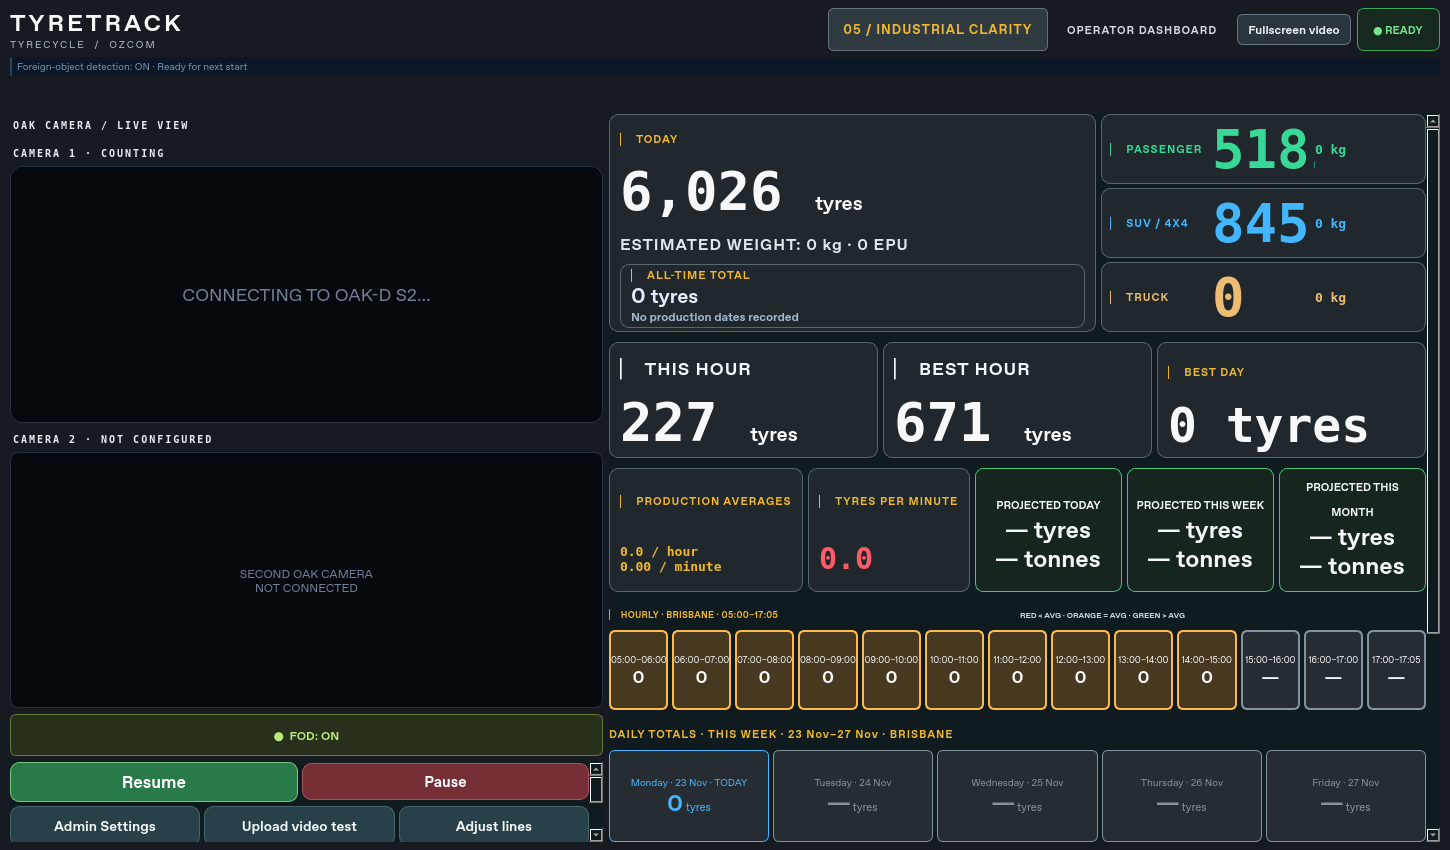
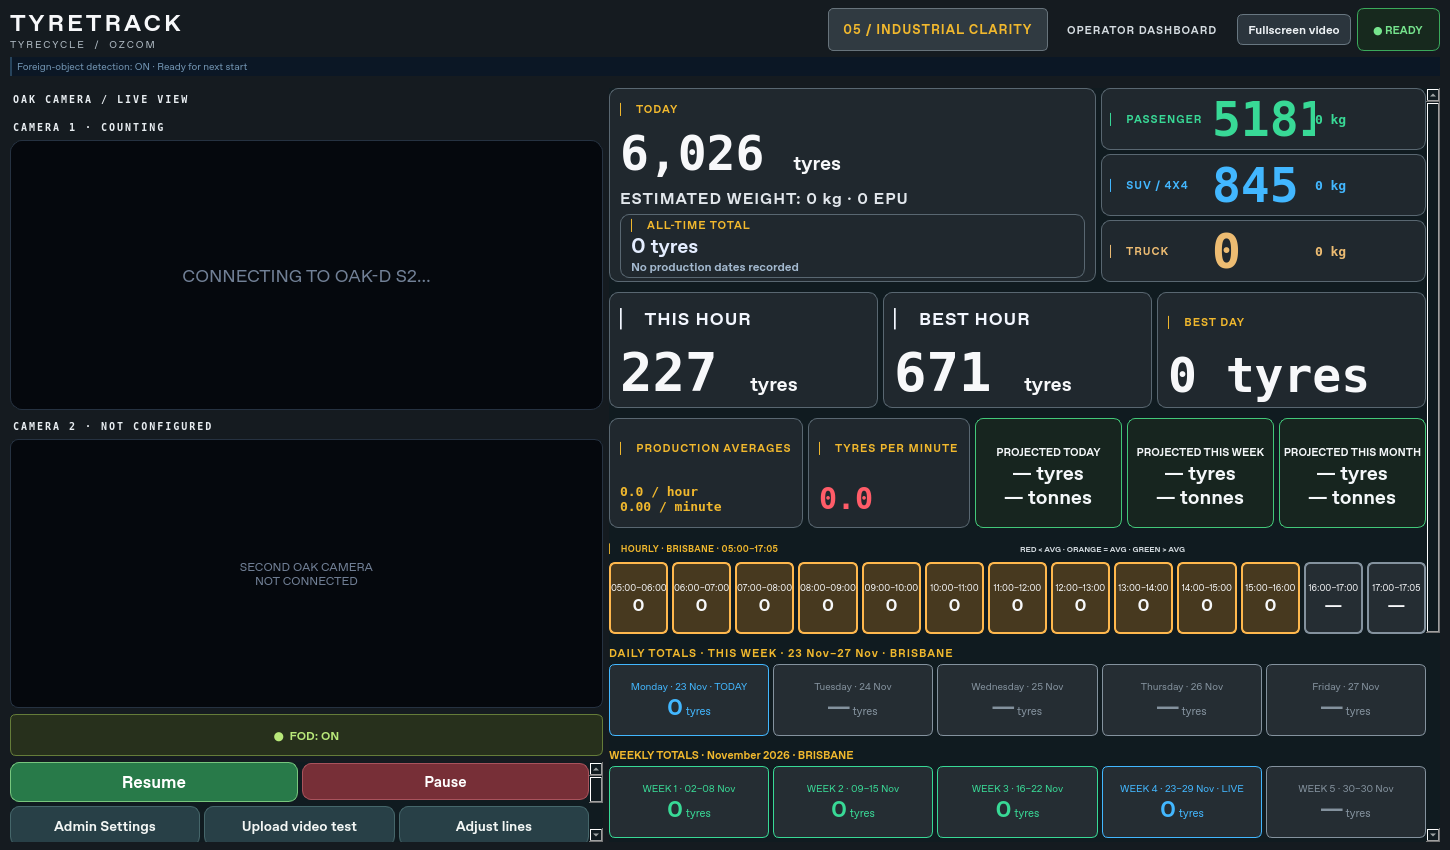
Add files via upload

diff --git a/month_week_dashboard_test.py b/month_week_dashboard_test.py
@@ -1,0 +1,53 @@
+"""Month week arithmetic and real responsive dashboard fit."""
+import sqlite3,calendar
+from datetime import datetime,timedelta,timezone
+from contextlib import closing
+from weekly_dashboard import month_week_snapshot
+from hourly_dashboard import BRISBANE
+now=datetime(2026,10,28,10,tzinfo=BRISBANE)
+with closing(sqlite3.connect(':memory:')) as c:
+ c.execute('CREATE TABLE counts(ts TEXT,metric_utc REAL,source TEXT)')
+ def add(t,source='oak',legacy=False,utc=False):
+  ts=t.astimezone(timezone.utc).isoformat() if utc else t.replace(tzinfo=None).isoformat() if legacy else t.isoformat()
+  c.execute('INSERT INTO counts VALUES(?,?,?)',(ts,None if legacy or utc else t.timestamp(),source))
+ add(now.replace(day=1,hour=5),utc=True);add(now.replace(day=2,hour=17,minute=4),legacy=True)
+ for day in (5,26,27,28):add(now.replace(day=day,hour=6))
+ for t,src in [(now.replace(day=3),'oak'),(now.replace(day=28,hour=11),'oak'),(now.replace(day=29),'oak'),(now.replace(day=27,hour=4,minute=59),'oak'),(now.replace(day=27,hour=17,minute=5),'oak'),(now,'video'),(now.replace(month=9,day=30),'oak')]:add(t,src)
+ c.execute("INSERT INTO counts VALUES('bad',NULL,'oak')")
+ ws=month_week_snapshot(c,'oak',now);assert [w['count'] for w in ws]==[2,1,0,0,3],ws
+ assert ws[-1]['current'] and all(w['completed'] for w in ws[:-1])
+ assert month_week_snapshot(c,'oak',now.astimezone(timezone.utc))==ws
+ for year in (2024,2026,2027):
+  for month in range(1,13):
+   ws=month_week_snapshot(c,'oak',now.replace(year=year,month=month,day=1));assert 4<=len(ws)<=5
+   covered=[(w['start']+timedelta(days=i)).date() for w in ws for i in range((w['end']-w['start']).days)]
+   assert len(covered)==len(set(covered)) and all(d.month==month for d in covered)
+   assert all(datetime(year,month,d).date() in covered for d in range(1,calendar.monthrange(year,month)[1]+1) if datetime(year,month,d).weekday()<5)
+ nov=month_week_snapshot(c,'oak',now.replace(month=11,day=1));assert nov[0]['start'].day==2 and all(w['future'] for w in nov)
+print('PASS month boundaries, leap years, partial weeks, timezone rollover, production shifts/source/future exclusion')
+# Reuse the established real UI fixture with added month-row assertions.
+from pathlib import Path
+source=Path('weekday_dashboard_test.py').read_text()
+source=source.replace("[(1280,720),(1366,768),(1450,850)]","[(1280,720),(1366,768),(1450,850),(1920,1080)]")
+needle="    assert w.hourly_strip.isVisible() and w.weekday_strip.isVisible()"
+extra='''
+    assert [x['count'] for x in w._dashboard_cache['month_weeks']]==[0,0,0,0,10]
+    assert 'October 2026' in w.month_week_heading.text() and 'LIVE' in w.dashboard_week_blocks[-1].text()
+    w.stats_scroll.verticalScrollBar().setValue(0);qt.processEvents()
+    viewport=w.stats_scroll.viewport()
+    for strip in (w.hourly_strip,w.weekday_strip,w.month_week_strip):
+     pos=strip.mapTo(viewport,strip.rect().topLeft())
+     assert pos.x()>=0 and pos.x()+strip.width()<=viewport.width()+1
+     assert pos.y()>=0 and pos.y()+strip.height()<=viewport.height()+1,(style,width,height,pos.y(),strip.height(),viewport.height())
+    blocks=[b for b in w.dashboard_week_blocks if b.isVisible()]
+    assert max(b.width() for b in blocks)-min(b.width() for b in blocks)<=1
+    assert all(b.height()>=48 and b.width()>=120 for b in blocks)
+    from PyQt5.QtGui import QTextDocument
+    for label in w.projection_labels.values():
+     document=QTextDocument();document.setDefaultFont(label.font());document.setHtml(label.text());document.setTextWidth(label.width()-8)
+     assert document.size().height()<=label.height(),(style,width,height,document.size().height(),label.height())
+'''
+assert needle in source;source=source.replace(needle,needle+extra)
+source=source.replace('weekday_dashboard_preview.png','month_week_dashboard_preview.png')
+exec(compile(source,'month_week_real_ui_fixture','exec'),{'__file__':str(Path('weekday_dashboard_test.py').resolve())})
+print('PASS weekly cards equal width, 3 totals rows fully visible without scrolling at 4 sizes/2 styles; real async production totals')

diff --git a/run_ci_tests.py b/run_ci_tests.py
@@ -2,7 +2,7 @@
 import os,subprocess,sys,time,pathlib
 ROOT=pathlib.Path(__file__).resolve().parent
 LOGS=ROOT/'build_logs';LOGS.mkdir(exist_ok=True)
-TESTS=['belt_width_confirmed_test.py','overlap_adjustment_ui_test.py','overlap_worker_link_test.py','overlap_adjustment_test.py','overlap_review_test.py','overlap_trial_test.py','classification_replay_test.py','classification_comparison_worker_test.py','classification_review_test.py','classification_review_ui_test.py','belt_width_assist_test.py','foreign_startup_test.py','test_resources_test.py','production_support_test.py','monthly_forecast_test.py','web_snapshot_test.py','web_dashboard_ui_test.py','web_dashboard_test.py','integrity_line_endings_test.py','no_count_reply_ui_test.py','no_count_reply_recovery_test.py','production_forecast_test.py','dashboard_performance_test.py','live_totals_test.py','management_reports_test.py','foreign_report_snapshots_test.py','weekday_dashboard_test.py','tyre_weight_test.py','preview_performance_test.py','startup_support_test.py','celebration_shuffle_test.py','compare_builds_test.py','celebration_audio_test.py','database_upgrade_test.py','line_span_test.py','adjustable_bounds_test.py','video_preview_integration_test.py','onscreen_preview_test.py','video_test_ui_test.py','zigzag_test.py','three_line_test.py','production_schedule_test.py','schedule_metrics_test.py','production_ui_test.py','celebration_test.py','logic_test_isolation_test.py','no_count_replies_test.py','foreign_evidence_test.py','oak_foreign_worker_test.py','oak_integrity_test.py','oak_rvc2_test.py','oak_fov_test.py','oak_recording_test.py','gui_render_test.py','dashboard_async_test.py','oak_ai_test.py','oak_stream_test.py','oak_worker_test.py','tyretrack_report_sync_test.py','foreign_alarm_test.py']
+TESTS=['month_week_dashboard_test.py','belt_width_confirmed_test.py','overlap_adjustment_ui_test.py','overlap_worker_link_test.py','overlap_adjustment_test.py','overlap_review_test.py','overlap_trial_test.py','classification_replay_test.py','classification_comparison_worker_test.py','classification_review_test.py','classification_review_ui_test.py','belt_width_assist_test.py','foreign_startup_test.py','test_resources_test.py','production_support_test.py','monthly_forecast_test.py','web_snapshot_test.py','web_dashboard_ui_test.py','web_dashboard_test.py','integrity_line_endings_test.py','no_count_reply_ui_test.py','no_count_reply_recovery_test.py','production_forecast_test.py','dashboard_performance_test.py','live_totals_test.py','management_reports_test.py','foreign_report_snapshots_test.py','weekday_dashboard_test.py','tyre_weight_test.py','preview_performance_test.py','startup_support_test.py','celebration_shuffle_test.py','compare_builds_test.py','celebration_audio_test.py','database_upgrade_test.py','line_span_test.py','adjustable_bounds_test.py','video_preview_integration_test.py','onscreen_preview_test.py','video_test_ui_test.py','zigzag_test.py','three_line_test.py','production_schedule_test.py','schedule_metrics_test.py','production_ui_test.py','celebration_test.py','logic_test_isolation_test.py','no_count_replies_test.py','foreign_evidence_test.py','oak_foreign_worker_test.py','oak_integrity_test.py','oak_rvc2_test.py','oak_fov_test.py','oak_recording_test.py','gui_render_test.py','dashboard_async_test.py','oak_ai_test.py','oak_stream_test.py','oak_worker_test.py','tyretrack_report_sync_test.py','foreign_alarm_test.py']
 for test in TESTS:
     print(f'\n=== START {test} ===',flush=True)
     start=time.monotonic()

diff --git a/classification_review_ui_test.py b/classification_review_ui_test.py
@@ -1,5 +1,5 @@
 """Real Qt dashboard/review interactions; CPU model stub, isolated state, no camera/network."""
-import os,sys,types,time
+import os,sys,types,time,threading
 from test_resources import DatabaseTemporaryDirectory
 from pathlib import Path
 os.environ['QT_QPA_PLATFORM']='offscreen'
@@ -63,8 +63,44 @@ with DatabaseTemporaryDirectory() as tmp:
  annotated=cv2.imread(saved['payload']['snapshot']);assert ((annotated[:,:,2]>180)&(annotated[:,:,1]<60)).any()
  assert saved['status']=='unreviewed' and saved['payload']['model_sha256']=='fixture-model'
  assert m.production_snapshot()['all_time']==0
- w.close();app.processEvents()
+ # Reproduce the Windows cleanup race deterministically: a dashboard reader
+ # is still opening the review DB when the main window begins closing.
+ previous=getattr(w,'_review_dashboard_thread',None)
+ if previous is not None:previous.join(6)
+ app.processEvents();w._review_dashboard_busy=False
+ entered=threading.Event();release=threading.Event();completed=threading.Event()
+ real_rows=store.rows
+ def delayed_rows(*args,**kwargs):
+  if threading.current_thread().name=='review-dashboard-read':
+   entered.set();assert release.wait(5), 'Test reader release timed out'
+   try:return real_rows(*args,**kwargs)
+   finally:completed.set()
+  return real_rows(*args,**kwargs)
+ store.rows=delayed_rows
+ w.refresh_comparison_dashboard();assert entered.wait(2)
+ reader=w._review_dashboard_thread
+ join_started=threading.Event();real_join=reader.join
+ def joining_reader(timeout=None):
+  join_started.set();return real_join(timeout)
+ reader.join=joining_reader
+ def release_on_shutdown():
+  deadline=time.monotonic()+3
+  while not w.closing and time.monotonic()<deadline:time.sleep(.005)
+  assert w.closing, 'Window never began shutdown'
+  join_started.wait(3)
+  release.set()
+ releaser=threading.Thread(target=release_on_shutdown);releaser.start()
+ w.close();releaser.join(5)
+ assert join_started.is_set(), 'Window close did not join its dashboard reader'
+ assert completed.is_set() and not reader.is_alive(), 'Dashboard reader outlived window close'
+ assert not w.review_dashboard_timer.isActive()
+ w._review_dashboard_busy=False
+ w.refresh_comparison_dashboard()
+ assert w._review_dashboard_thread is reader, 'A new reader started during shutdown'
+ app.processEvents()
+ assert not reader.is_alive()
  assert store.close(), "Review writer did not stop before fixture cleanup"
 assert not p.exists(), 'Temporary database directory was not removed'
+print('PASS delayed dashboard reader joined before close; refresh disabled during shutdown; no cleanup-error suppression')
 print('PASS fixture explicitly closes UI SQLite handles and rejects leaked worker handles before Windows cleanup')
 print('PASS real dashboard comparison, simple mode selection, review dialog false-alert save and zero production counts; model stub/no camera')

diff --git a/production_ui_test.py b/production_ui_test.py
@@ -30,9 +30,9 @@ assert w.line_angle.value()==0 and w.line_length.value()==100
 for width,height in ((1450,850),(1366,768),(1280,720)):
  w.resize(width,height)
  for _ in range(5):app.processEvents()
- expected_top=218 if height>=800 else 176
- expected_class_row=70 if height>=800 else 56
- expected_font=54 if height>=800 else 44
+ expected_top=194 if height>=800 else 152
+ expected_class_row=62 if height>=800 else 48
+ expected_font=48 if height>=800 else 38
  assert w.today_metric_card.height()==w.class_summary.height()==expected_top,(height,w.today_metric_card.height(),w.class_summary.height())
  assert all(w.class_summary.layout().itemAt(i).widget().height()==expected_class_row for i in range(3))
  assert all(f'{expected_font}px' in label.styleSheet() for label in (w.day_lbl,w.passenger_lbl,w.suv_lbl,w.truck_lbl))
@@ -58,9 +58,9 @@ assert w.record_progress.toolTip()=="Fixed message"
 assert w.dashboard_flow_card.isVisible() and w.dashboard_record_progress.isVisible()
 assert w.dashboard_flow_card.height()==w.averages_metric_card.height()==list(w.projection_labels.values())[0].height()
 assert w.dashboard_record_progress.mapTo(w,w.dashboard_record_progress.rect().topLeft()).y() >= w.weekday_strip.mapTo(w,w.weekday_strip.rect().bottomLeft()).y()
-assert w.today_metric_card.height()==w.class_summary.height()==176
-assert all(w.class_summary.layout().itemAt(i).widget().height()==56 for i in range(3))
-assert all('44px' in label.styleSheet() for label in (w.day_lbl,w.passenger_lbl,w.suv_lbl,w.truck_lbl))
+assert w.today_metric_card.height()==w.class_summary.height()==152
+assert all(w.class_summary.layout().itemAt(i).widget().height()==48 for i in range(3))
+assert all('38px' in label.styleSheet() for label in (w.day_lbl,w.passenger_lbl,w.suv_lbl,w.truck_lbl))
 w.set_flow_rate(4.9)
 assert w.dashboard_flow_lbl.text()=='4.9' and '#FF5C68' in w.dashboard_flow_lbl.styleSheet()
 w.set_flow_rate(5)
@@ -80,7 +80,7 @@ assert not w.show_tyre_labels.isChecked()
 assert not hasattr(w, 'target_button')
 assert len(w.projection_labels)==3
 assert 'PROJECTED THIS MONTH' in w.forecast_label.text()
-assert '900 20px' in w.forecast_label.styleSheet()
+assert '900 16px' in w.forecast_label.styleSheet()
 print('PASS: stationary accessible message, steady low-flow threshold, monthly projection and smooth unlabelled defaults')
 print('PASS: actual Qt operator dashboard at 1450,1366,1280; OAK only, foreign off, hidden fixed lines')
 w.resize(1353,689)

diff --git a/weekly_dashboard.py b/weekly_dashboard.py
@@ -32,3 +32,33 @@ def weekday_snapshot(connection, source, now=None):
         except (TypeError, ValueError, OverflowError, OSError):
             continue
     return days
+
+
+def month_week_snapshot(connection, source, now=None):
+    """Calendar weeks clipped to this month; original weekday shift counts only."""
+    now=(now or brisbane_now()).astimezone(BRISBANE)
+    first=now.replace(day=1,hour=0,minute=0,second=0,microsecond=0)
+    end=(first.replace(day=28)+timedelta(days=4)).replace(day=1)
+    monday=first-timedelta(days=first.weekday());weeks=[]
+    while monday<end:
+        start=max(first,monday);stop=min(end,monday+timedelta(days=7))
+        # Do not allocate a production-week card for a weekend-only fragment.
+        if any((start+timedelta(days=i)).weekday()<5 for i in range((stop-start).days)):
+            weeks.append(dict(start=start,end=stop,count=0,current=start<=now<stop,
+                              completed=now>=stop,future=now<start))
+        monday+=timedelta(days=7)
+    rows=connection.execute('SELECT ts,metric_utc FROM counts WHERE source=? AND '
+        '((metric_utc>=? AND metric_utc<?) OR (metric_utc IS NULL AND ts>=? AND ts<?))',
+        (source,first.timestamp(),end.timestamp(),(first-timedelta(days=1)).date().isoformat(),
+         (end+timedelta(days=1)).date().isoformat()))
+    for ts,epoch in rows:
+        try:
+            stamp=datetime.fromtimestamp(epoch,BRISBANE) if epoch is not None else datetime.fromisoformat(ts)
+            if stamp.tzinfo is None:stamp=stamp.replace(tzinfo=BRISBANE)
+            stamp=stamp.astimezone(BRISBANE)
+            if not first<=stamp<end or stamp>now or stamp.weekday()>=5:continue
+            if not stamp.replace(hour=5,minute=0,second=0,microsecond=0)<=stamp<stamp.replace(hour=17,minute=5,second=0,microsecond=0):continue
+            for week in weeks:
+                if week['start']<=stamp<week['end']:week['count']+=1;break
+        except (TypeError,ValueError,OverflowError,OSError):continue
+    return weeks
